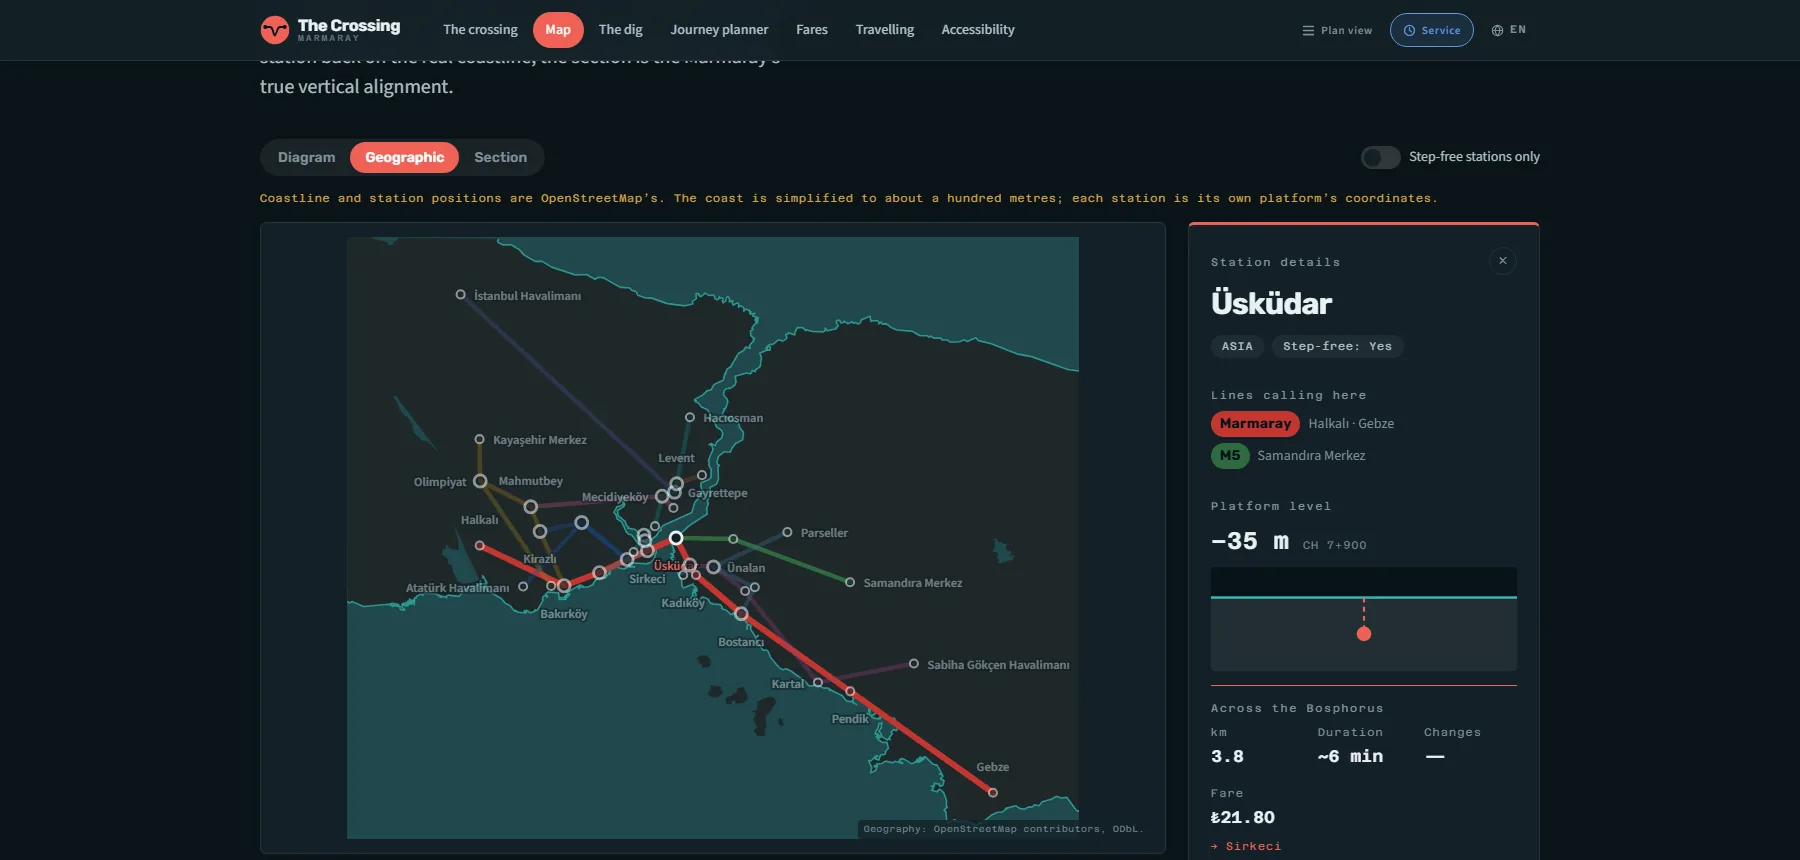
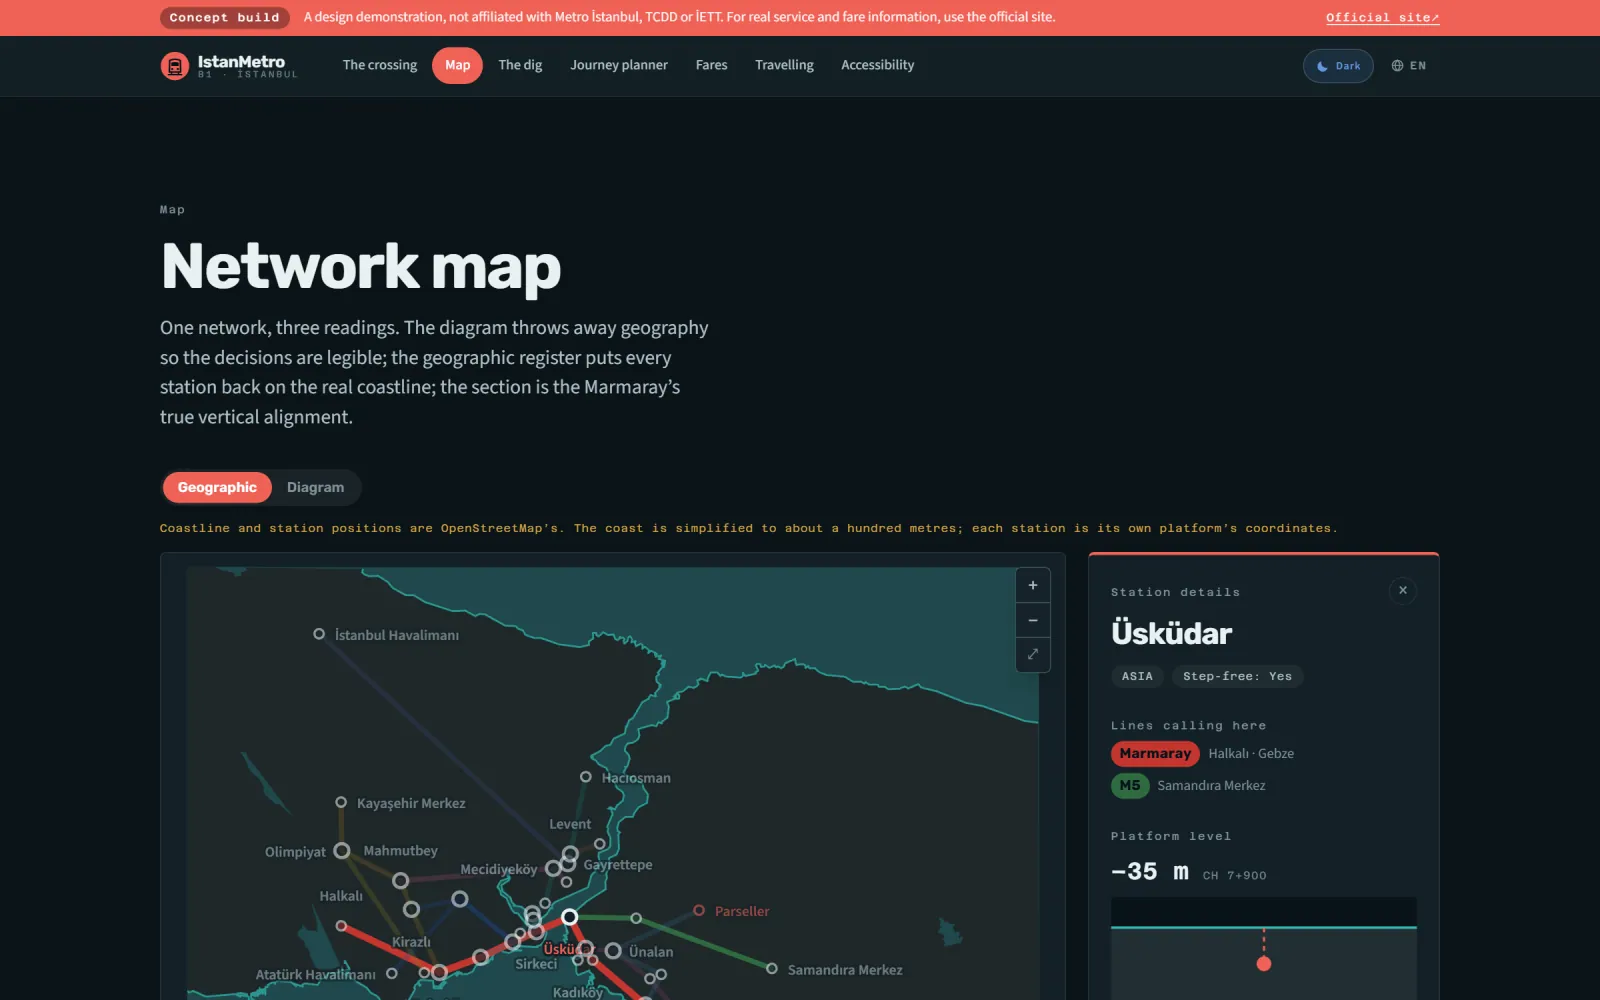
The Crossing: reshoot the case study against the current build
The site it documents changed under it. It is IstanMetro now, the map
opens on the coastline and zooms out to the world, the planner draws the
journey on the network, the dig's bands carry a field record instead of
empty ground, and the plan view is gone.

So: all twelve stills recaptured from the built site, `11-planview`
replaced by the world zoom, and a thirteenth for the planner. Three
claims that had quietly stopped being true are corrected - the map is two
registers rather than three, the dig's Ottoman band is no longer "that
empty", and the JavaScript figure was a per-route number printed as a
site total.

Two more entries under What went wrong, because they are the useful kind:
Lightning CSS folding `animation-timeline` into the `animation` shorthand
and killing every scroll-driven animation in the build, and the layout
gate having been pointed at the dev server the whole time - which is what
let the first one hide.

Also normalises four files from CRLF to LF. They were failing
`format:check` before this change and had nothing to do with it; the
whole-file diffs are line endings only.

Gates: format, 0 lint, astro check, svelte-check, build, budgets.

diff --git a/src/content/work/marmaray-crossing.md b/src/content/work/marmaray-crossing.md
@@ -27,10 +27,10 @@ strata:
   - id: depth
     image: /work/marmaray/03-depth-section.webp
     note: >-
-      The network is drawn three ways from one set of stations: Beck's diagram, the real
-      coastline, and the tunnel in section with chainage across and elevation down. They
-      morph rather than crossfade, which is the only way to show what a transit diagram
-      costs — you can watch the compression happen.
+      The network is drawn two ways from one set of stations: the real coastline it opens
+      on, and Beck's diagram. They morph rather than crossfade, which is the only way to
+      show what a transit diagram costs — you can watch the compression happen, station by
+      station, instead of being told about it.
   - id: data
     image: /work/marmaray/04-data-map.webp
     note: >-
@@ -66,18 +66,25 @@ gallery:
       a list somebody wrote.
   - src: /work/marmaray/09-dig.webp
     caption: >-
-      The Yenikapı section. Layer heights are the real depths, so the Ottoman band is
-      genuinely that empty and the Byzantine harbour is genuinely that thick.
+      The Yenikapı section. Band heights are the real excavated depths, so the Byzantine
+      harbour is genuinely that thick — and each band carries the three notes a section
+      drawing always has, beside a drawing of the whole 22 m column with the current layer
+      lit.
   - src: /work/marmaray/10-arabic.webp
     caption: >-
       Arabic. The prose flips; the crossing does not. A compass bearing is not a text
       direction, so the track, the map and the section stay pinned left-to-right while
       everything around them reverses.
-  - src: /work/marmaray/11-planview.webp
+  - src: /work/marmaray/11-world.webp
     caption: >-
-      Plan view — the same content as an ordinary vertical document. WCAG 1.4.10 forbids
-      requiring two-dimensional scrolling, so the sideways reading has to be a presentation
-      rather than the only way in.
+      Keep zooming out and İstanbul stops being the frame. Natural Earth's land in the same
+      Mercator as the city window, three copies at ±360° so the pan wraps — because a metro
+      map answers "how do I get there" and almost never answers "where is this".
+  - src: /work/marmaray/12-planner.webp
+    caption: >-
+      The planner draws the whole network with the journey lit through it. A route printed
+      as a column of station names is a route to somebody who already knows the city and a
+      list of words to everybody else.
 metrics:
   - label: Layout audits per run
     after: '448'
@@ -87,11 +94,11 @@ metrics:
     source: scripts/check-contrast.mjs — 5 depth bands × 2 services
   - label: Languages
     after: '4'
-    source: English, Türkçe, العربية, Русский — 331 keys each
+    source: English, Türkçe, العربية, Русский — 377 keys each
   - label: JavaScript on the wire
     before: '150 KB budget'
-    after: '16 KB'
-    source: scripts/check-budgets.mjs, gzipped
+    after: '78 KB'
+    source: scripts/check-budgets.mjs, gzipped, whole site
 ---
 
 ## The shape is the argument
@@ -134,7 +141,20 @@ name that fits nowhere is not drawn, because at that scale it genuinely does not
 
 ## What went wrong
 
-Four things worth publishing.
+Six things worth publishing.
+
+**Every scroll-driven animation was dead in the shipped build.** Lightning CSS composes
+`animation-name`, `animation-timing-function` and `animation-fill-mode` back into the
+`animation` shorthand — and quietly folds `animation-timeline` in with them, where the
+shorthand resets it to `auto`. So every `animation-timeline: view()` on the site became a
+time-based animation that had already finished. The dev server does not minify, which is
+why nobody saw it, and a frozen horizontal rail looks exactly like a rail at scroll
+position zero, which is why nobody noticed. The fix is one line — `cssMinify: 'esbuild'`.
+
+**The layout gate had been auditing the dev server all along.** Same root: the thing that
+ships is `dist`, and the gate was pointed at `astro dev`. It refuses a dev server outright
+now, which also cleared four phantom reflow failures that were dev's own injected
+furniture rather than the page's.
 
 **The film band had never been visible.** Not once. The crossing's track panels carry the
 class `panel`, and so did a bordered-card utility in the base stylesheet — so every panel
